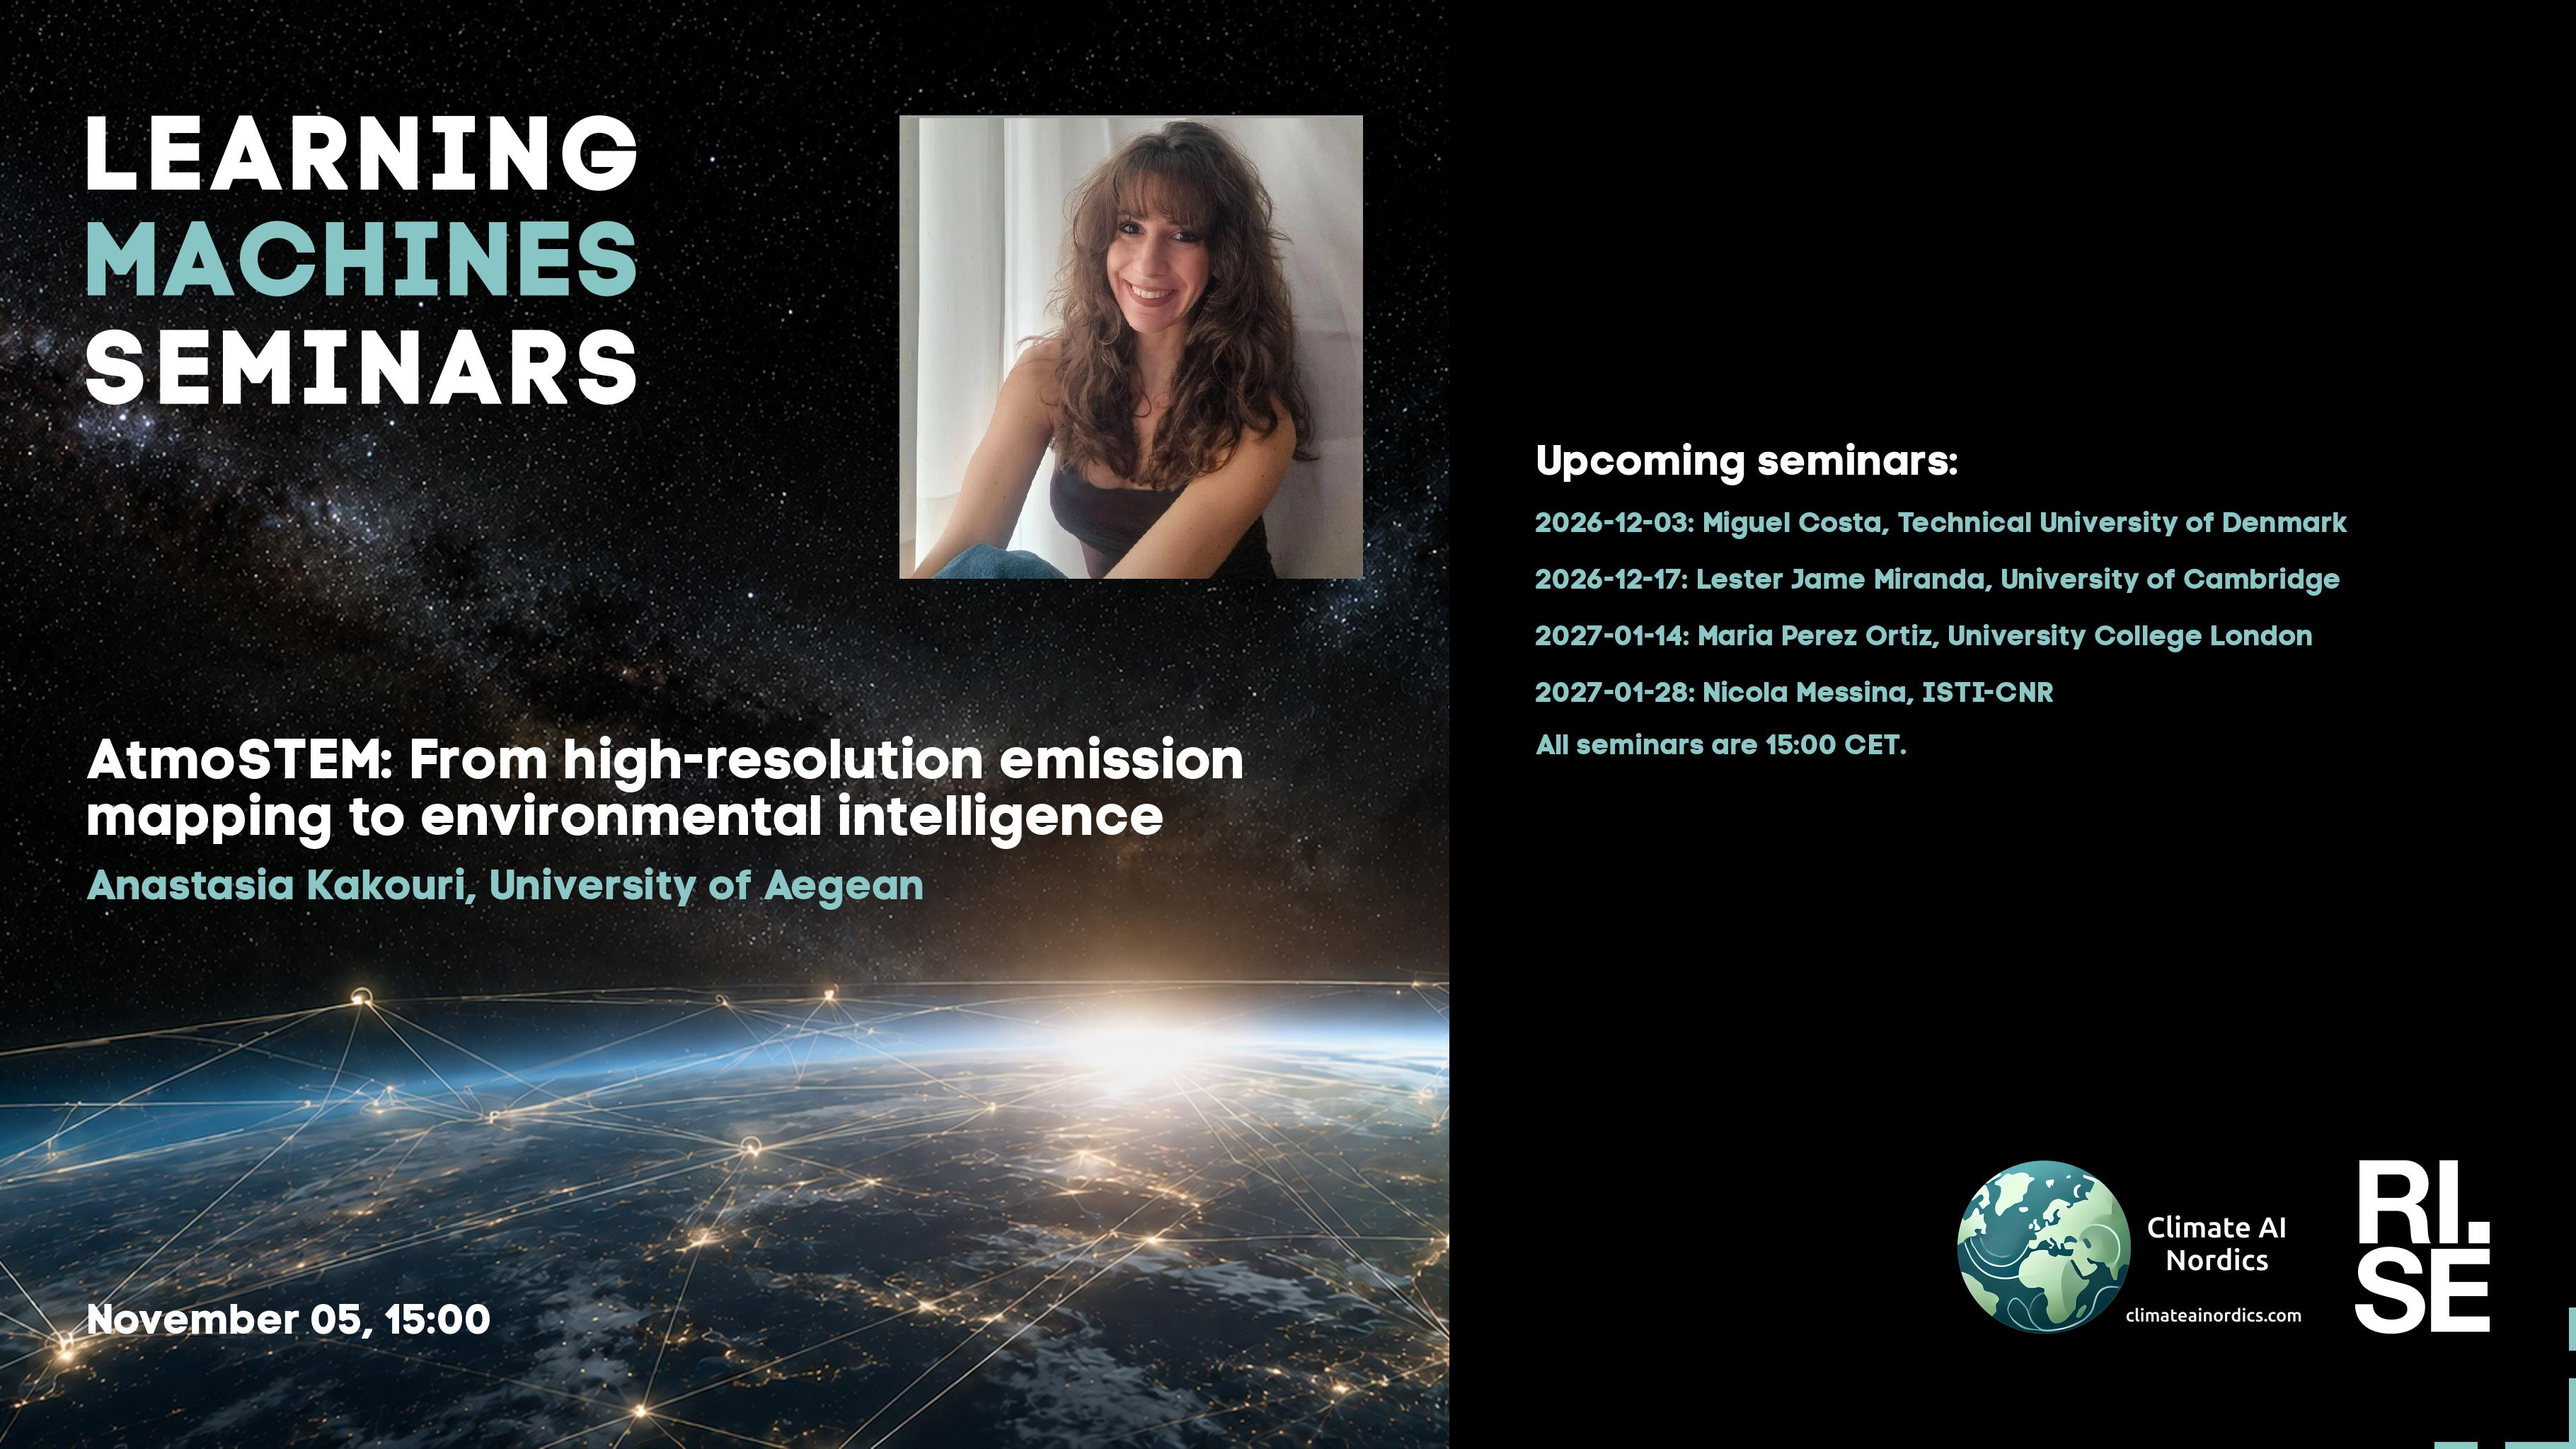
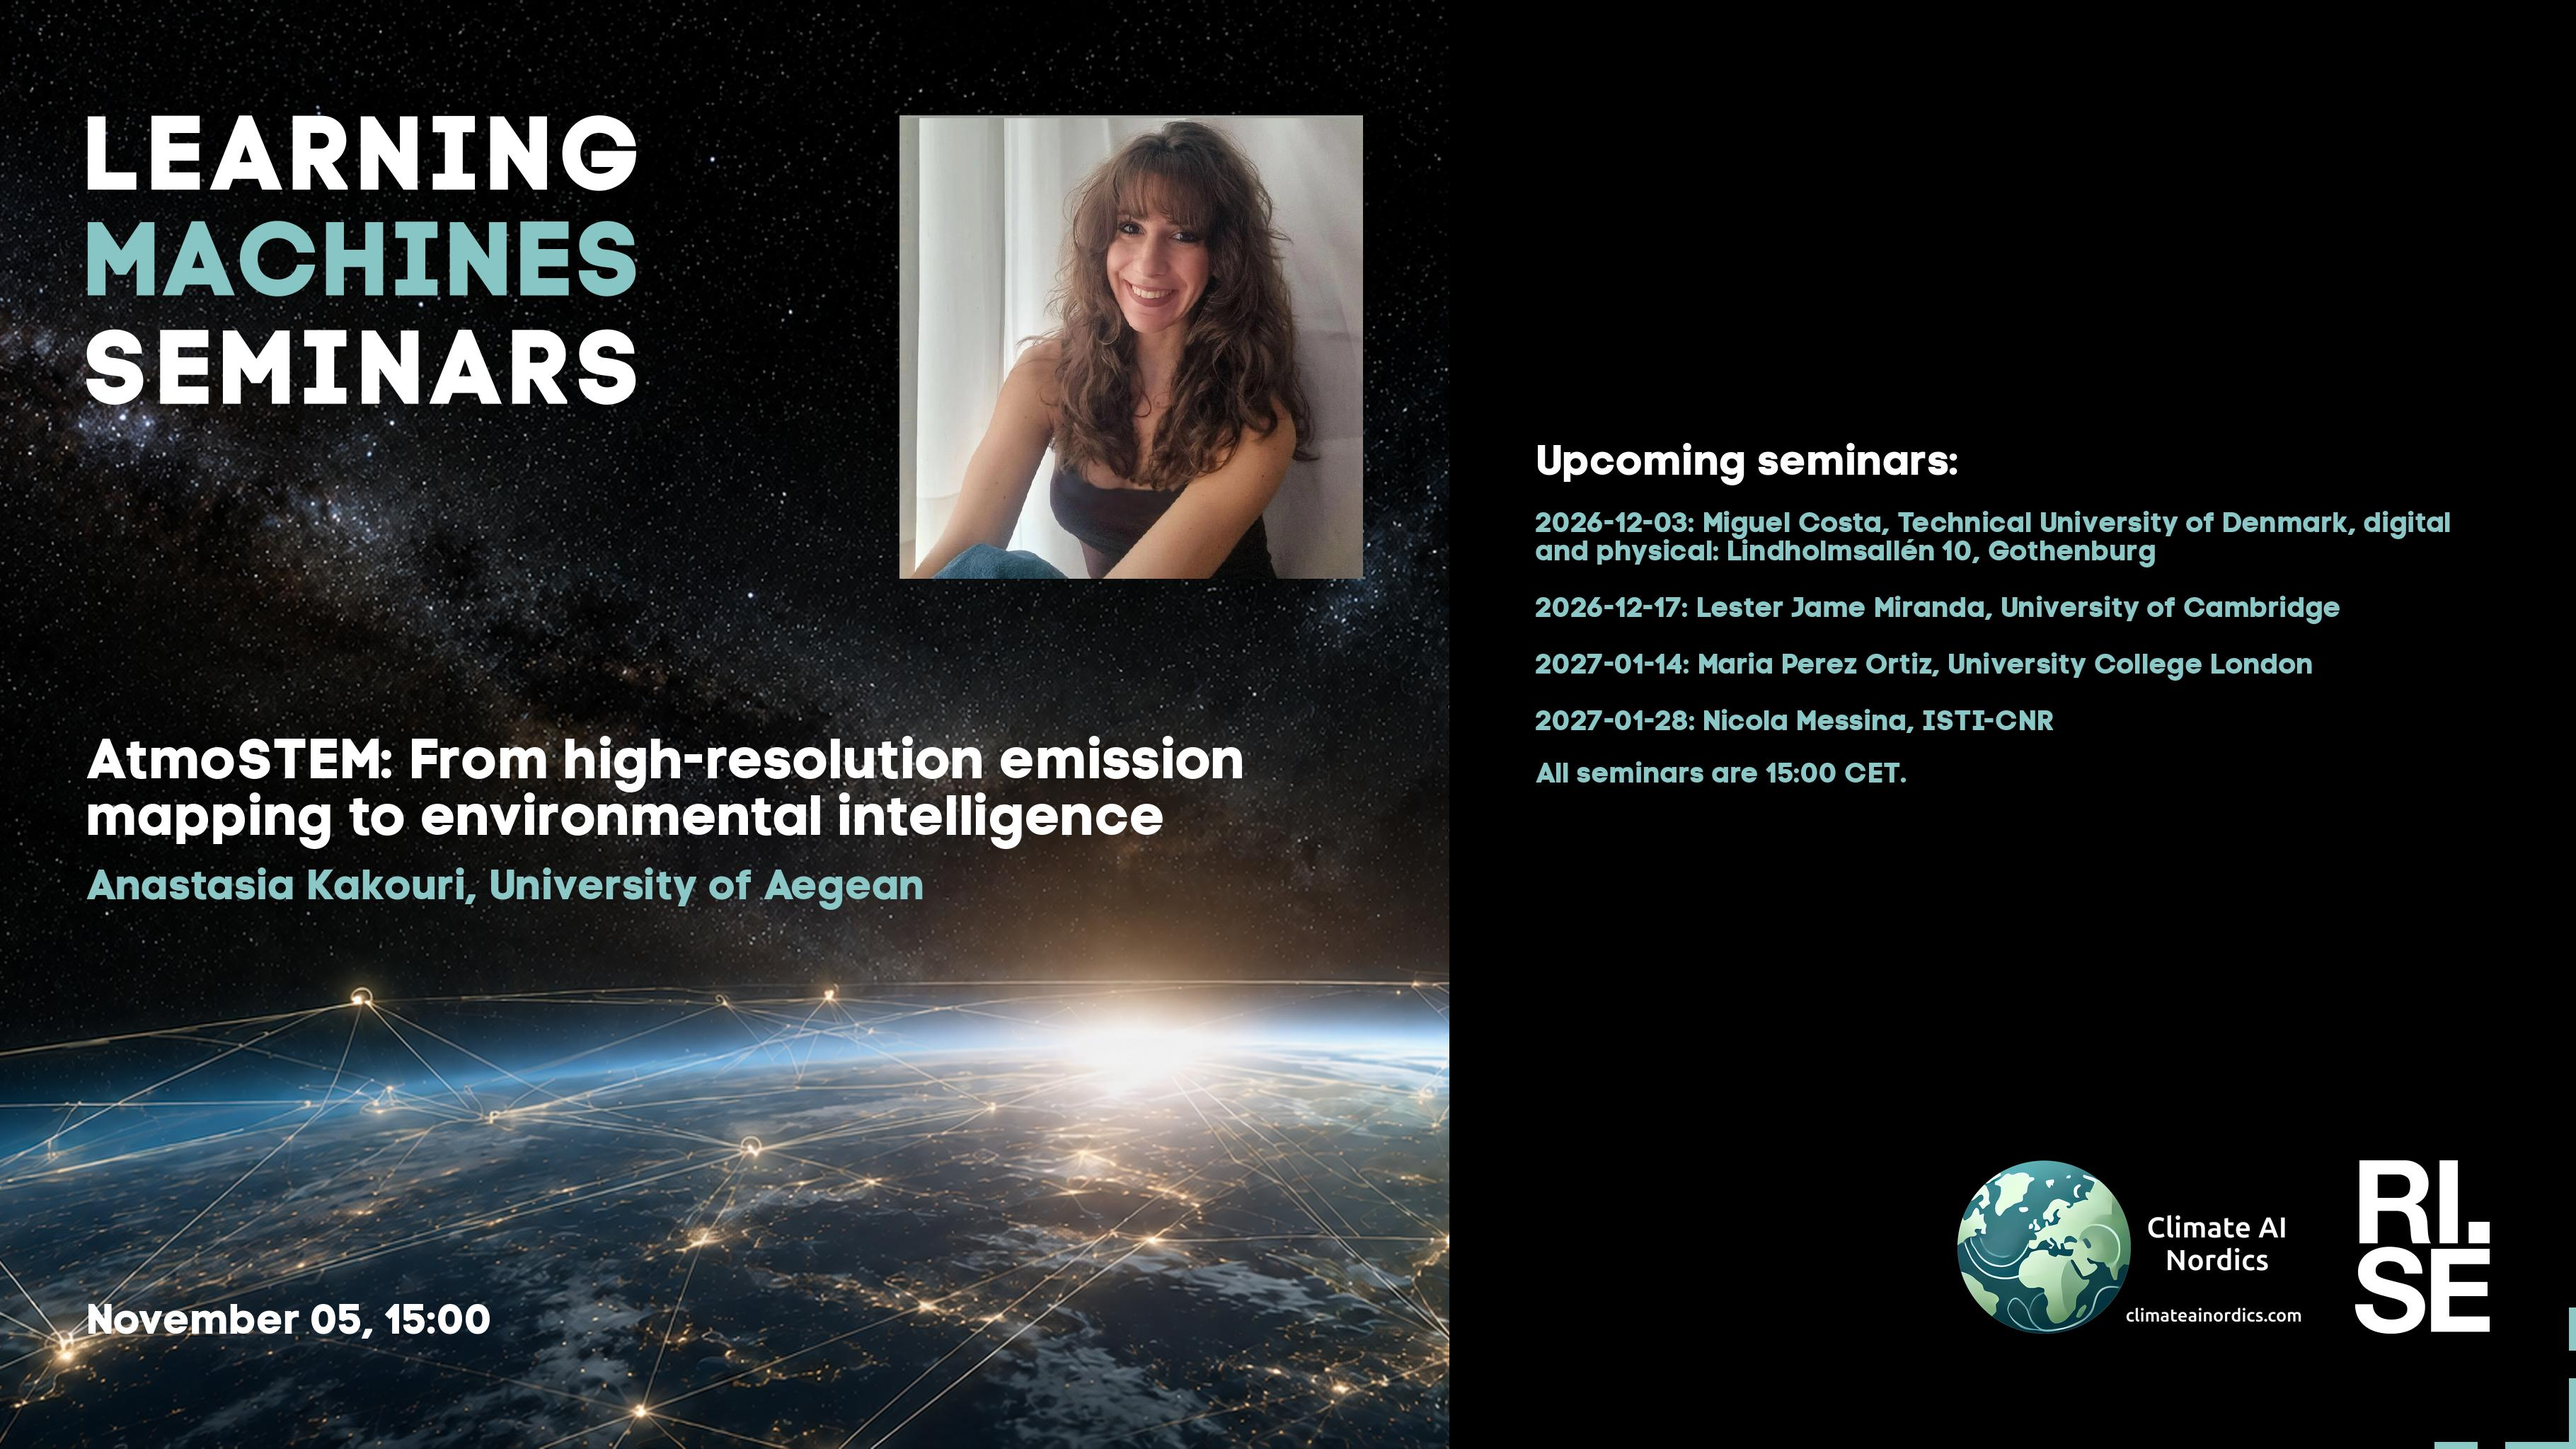
Updated plan on web site.

Changed region(s): [[0.5898, 0.375, 0.9003, 0.5625], [0.9003, 0.3438, 0.9624, 0.375]]

diff --git a/lm/2026.md b/lm/2026.md
@@ -42,7 +42,7 @@ table {border-collapse: collapse;}
 | <span style="color:red"> 2026-10-29 </span> | <span style="color:red"> BI-WEEKLY PAUSE and Autumn break </span> | <span style="color:red">  </span> | <span style="color:red">  ---  ---  </span> | <span style="color:red">  </span> | <span style="color:red">  </span> | <span style="color:red"> CANCELLED </span> |
 |  2026-11-05  |  [Anastasia Kakouri, University of Aegean](2026-11-05.md)  |  [photo](2026-11-05-photo-anastasia-kakouri.png)  |  [social media bg ](2026-11-05-social-media-bg-anastasia-kakouri.jpg) --- [social media photo ](2026-11-05-social-media-photo-anastasia-kakouri.jpg) --- [social media 169 ](2026-11-05-social-media-169-anastasia-kakouri.jpg)  |  [meeting backdrop ](2026-11-05-meeting-backdrop-anastasia-kakouri.jpg)  |  [youtube thumbnail ](2026-11-05-youtube-thumbnail-anastasia-kakouri.jpg)  |  STABP  |
 | <span style="color:red"> 2026-11-12 </span> | <span style="color:red"> BI-WEEKLY PAUSE </span> | <span style="color:red">  </span> | <span style="color:red">  ---  ---  </span> | <span style="color:red">  </span> | <span style="color:red">  </span> | <span style="color:red"> CANCELLED </span> |
-| <span style="color:grey"> 2026-11-19 </span> | <span style="color:grey"> Edward V. o. F. A. o. J. K. ? </span> | <span style="color:grey">  </span> | <span style="color:grey">  ---  ---  </span> | <span style="color:grey">  </span> | <span style="color:grey">  </span> | <span style="color:grey"> S~~TABP~~ </span> |
+| <span style="color:grey"> 2026-11-19 </span> | <span style="color:grey"> Emanuele R. o. E. V. o. F. A. o. J. K. ? </span> | <span style="color:grey">  </span> | <span style="color:grey">  ---  ---  </span> | <span style="color:grey">  </span> | <span style="color:grey">  </span> | <span style="color:grey"> S~~TABP~~ </span> |
 | <span style="color:red"> 2026-11-26 </span> | <span style="color:red"> BI-WEEKLY PAUSE </span> | <span style="color:red">  </span> | <span style="color:red">  ---  ---  </span> | <span style="color:red">  </span> | <span style="color:red">  </span> | <span style="color:red"> CANCELLED </span> |
 |  2026-12-03  |  [Miguel Costa, Technical University of Denmark](2026-12-03.md)  |  [photo](2026-12-03-photo-miguel-costa.jpg)  |  [social media bg ](2026-12-03-social-media-bg-miguel-costa.jpg) --- [social media photo ](2026-12-03-social-media-photo-miguel-costa.jpg) --- [social media 169 ](2026-12-03-social-media-169-miguel-costa.jpg)  |  [meeting backdrop ](2026-12-03-meeting-backdrop-miguel-costa.jpg)  |  [youtube thumbnail ](2026-12-03-youtube-thumbnail-miguel-costa.jpg)  |  STABP  |
 | <span style="color:red"> 2026-12-10 </span> | <span style="color:red"> BI-WEEKLY PAUSE </span> | <span style="color:red">  </span> | <span style="color:red">  ---  ---  </span> | <span style="color:red">  </span> | <span style="color:red">  </span> | <span style="color:red"> CANCELLED </span> |

diff --git a/lm/index.md b/lm/index.md
@@ -42,7 +42,7 @@ table {border-collapse: collapse;}
 | <span style="color:red"> 2026-10-29 </span> | <span style="color:red"> BI-WEEKLY PAUSE and Autumn break </span> | <span style="color:red">  </span> | <span style="color:red">  ---  ---  </span> | <span style="color:red">  </span> | <span style="color:red">  </span> | <span style="color:red"> CANCELLED </span> |
 |  2026-11-05  |  [Anastasia Kakouri, University of Aegean](2026-11-05.md)  |  [photo](2026-11-05-photo-anastasia-kakouri.png)  |  [social media bg ](2026-11-05-social-media-bg-anastasia-kakouri.jpg) --- [social media photo ](2026-11-05-social-media-photo-anastasia-kakouri.jpg) --- [social media 169 ](2026-11-05-social-media-169-anastasia-kakouri.jpg)  |  [meeting backdrop ](2026-11-05-meeting-backdrop-anastasia-kakouri.jpg)  |  [youtube thumbnail ](2026-11-05-youtube-thumbnail-anastasia-kakouri.jpg)  |  STABP  |
 | <span style="color:red"> 2026-11-12 </span> | <span style="color:red"> BI-WEEKLY PAUSE </span> | <span style="color:red">  </span> | <span style="color:red">  ---  ---  </span> | <span style="color:red">  </span> | <span style="color:red">  </span> | <span style="color:red"> CANCELLED </span> |
-| <span style="color:grey"> 2026-11-19 </span> | <span style="color:grey"> Edward V. o. F. A. o. J. K. ? </span> | <span style="color:grey">  </span> | <span style="color:grey">  ---  ---  </span> | <span style="color:grey">  </span> | <span style="color:grey">  </span> | <span style="color:grey"> S~~TABP~~ </span> |
+| <span style="color:grey"> 2026-11-19 </span> | <span style="color:grey"> Emanuele R. o. E. V. o. F. A. o. J. K. ? </span> | <span style="color:grey">  </span> | <span style="color:grey">  ---  ---  </span> | <span style="color:grey">  </span> | <span style="color:grey">  </span> | <span style="color:grey"> S~~TABP~~ </span> |
 | <span style="color:red"> 2026-11-26 </span> | <span style="color:red"> BI-WEEKLY PAUSE </span> | <span style="color:red">  </span> | <span style="color:red">  ---  ---  </span> | <span style="color:red">  </span> | <span style="color:red">  </span> | <span style="color:red"> CANCELLED </span> |
 |  2026-12-03  |  [Miguel Costa, Technical University of Denmark](2026-12-03.md)  |  [photo](2026-12-03-photo-miguel-costa.jpg)  |  [social media bg ](2026-12-03-social-media-bg-miguel-costa.jpg) --- [social media photo ](2026-12-03-social-media-photo-miguel-costa.jpg) --- [social media 169 ](2026-12-03-social-media-169-miguel-costa.jpg)  |  [meeting backdrop ](2026-12-03-meeting-backdrop-miguel-costa.jpg)  |  [youtube thumbnail ](2026-12-03-youtube-thumbnail-miguel-costa.jpg)  |  STABP  |
 | <span style="color:red"> 2026-12-10 </span> | <span style="color:red"> BI-WEEKLY PAUSE </span> | <span style="color:red">  </span> | <span style="color:red">  ---  ---  </span> | <span style="color:red">  </span> | <span style="color:red">  </span> | <span style="color:red"> CANCELLED </span> |

diff --git a/lm/2026-11-05.md b/lm/2026-11-05.md
@@ -32,13 +32,13 @@ Model predictions are evaluated against independent ground-based observations fr
 
 **Upcoming seminars:**
 
-* 2026-12-03: Miguel Costa, Technical University of Denmark
+* 2026-12-03: Miguel Costa, Technical University of Denmark, **digital and physical: Lindholmsallén 10, Gothenburg**
 * 2026-12-17: Lester Jame Miranda, University of Cambridge
 * 2027-01-14: Maria Perez Ortiz, University College London
 * 2027-01-28: Nicola Messina, ISTI-CNR
 * All seminars are 15:00 CET.
 
-More information and coming seminars: [https://ri.se/lm-sem](https://ri.se/lm-sem)
+More information and coming seminars: [https://learningmachines.se](https://learningmachines.se)
 
 -- The Learning Machines Team
 
